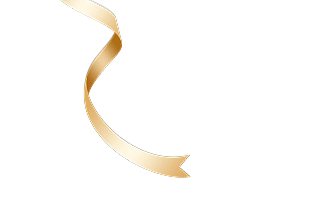
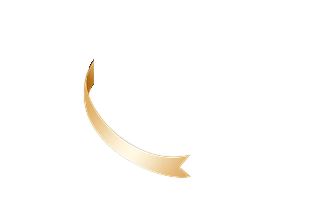
envelope bottom ribbon cropped

Changed region(s): [[0.1858, 0.0, 0.4025, 0.4569]]

diff --git a/creator-popup-envelope/creator-popup-envelop-template.html b/creator-popup-envelope/creator-popup-envelop-template.html
@@ -40,7 +40,7 @@
             }
             [data-ribbon-bottom]{
                 bottom: -2.5rem;
-                left: -11.25rem;
+                left: -11.35rem;
                 z-index: 7;
             }
             [data-envelope-container]{
@@ -229,7 +229,7 @@
 
                 [data-ribbon-bottom] {
                     bottom: -1.05rem;
-                    left: -6rem;
+                    left: -5.8125rem;
                 }
 
                 [data-envelope-outer-wrapper].read-more [data-letter]{
@@ -338,7 +338,7 @@
 
                 [data-ribbon-bottom] {
                     bottom: -1.5rem;
-                    right: 4.75rem;
+                    right: 4.35rem;
                 }
             }
         </style>
